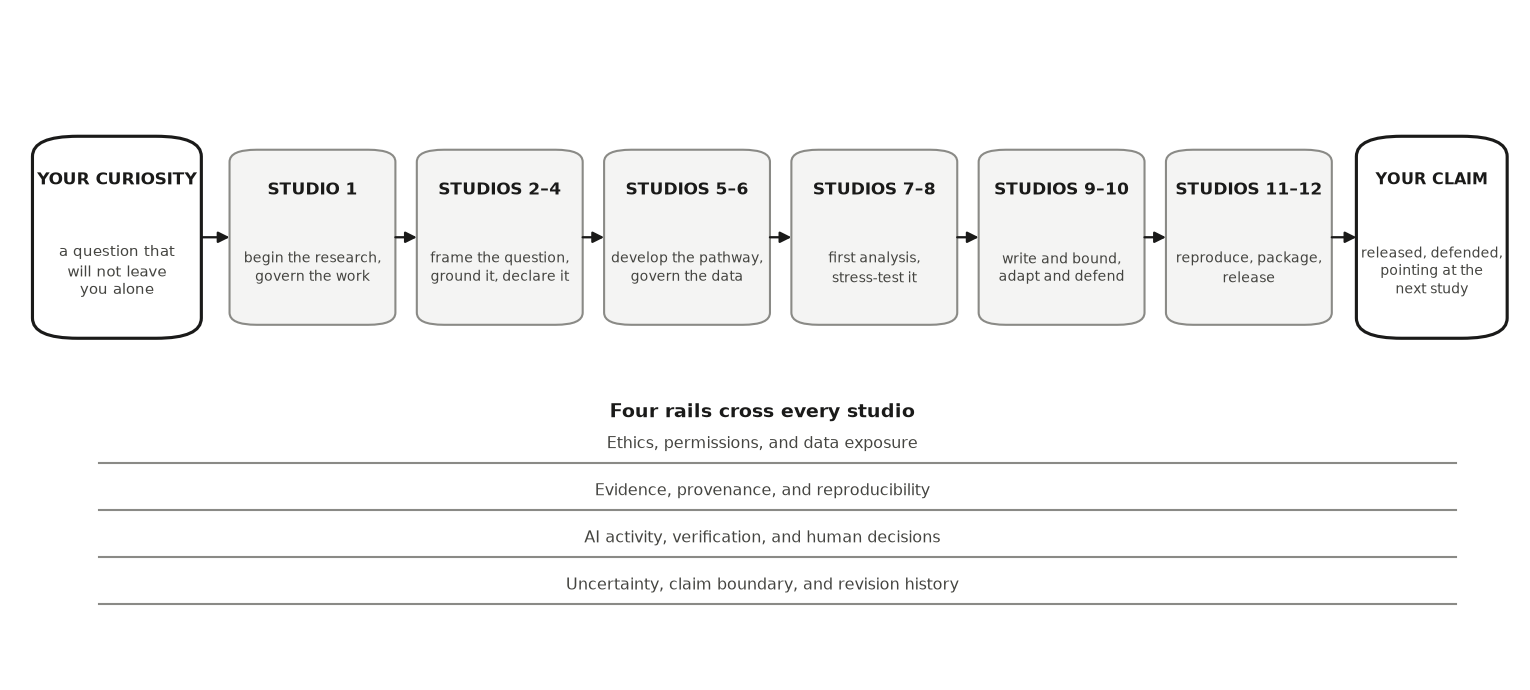
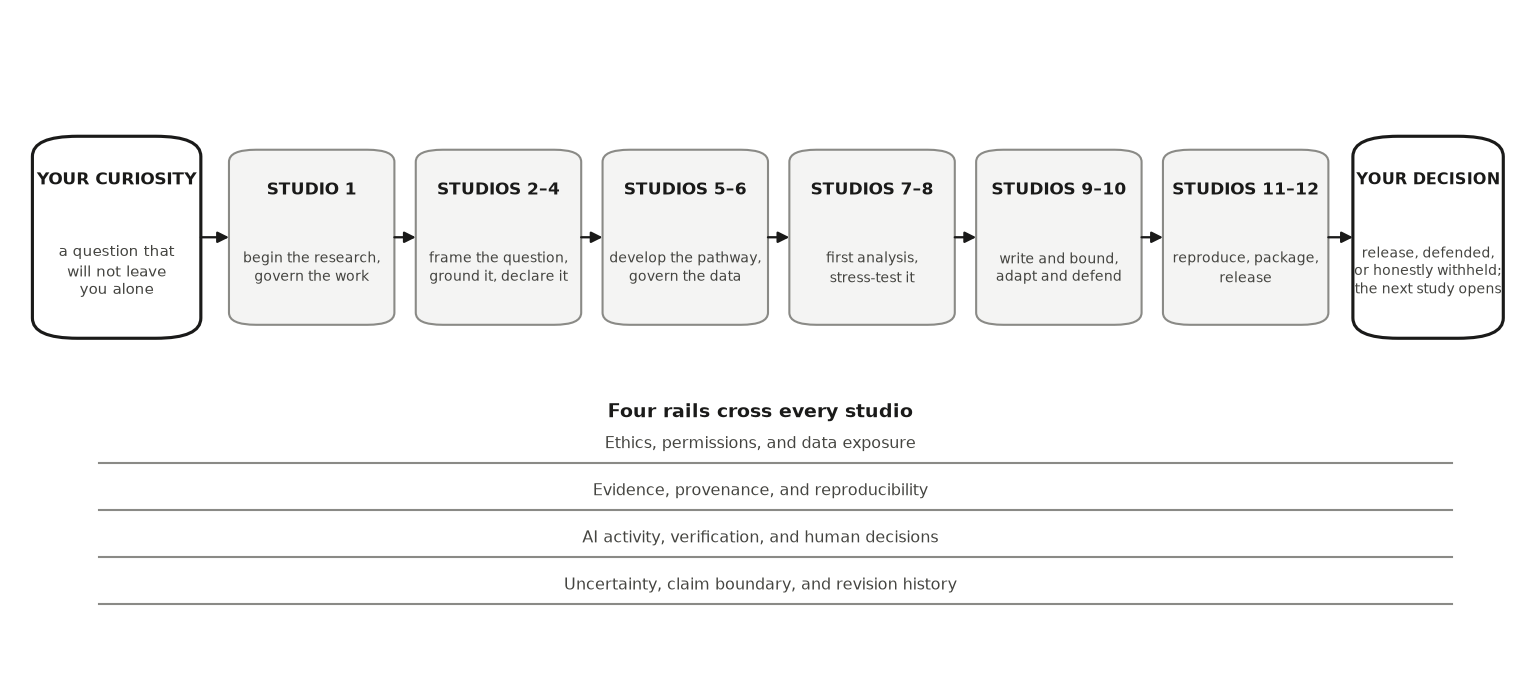
feat: D43 Codex-partner merge — four-line opening move, decision-honest endpoint, protocol rigor
Merged from the mirror partner run (gpt-5.6-sol, xhigh, read-only):
- Opening move gains the starting-belief line (write what you currently
  think the answer might be) and the hard no-AI stop; purpose says 'a
  curiosity you own'.
- Preface RDSS sentence names MIDA + declare-diagnose-redesign and the
  companion-not-substitute relationship.
- Figure endpoint honors D42's withhold semantics: 'YOUR DECISION —
  release, defended, or honestly withheld'; caption and alt text follow.
- ch4 core cycle flipped to 'List every claim to verify' (connects draft,
  ledger, verification, authorship); red-team-ownership becomes optional.
- M0 Book Anchor intro: named contributions, not prompt count.
- Cold-test protocols upgraded: 5-8 reader ideal, IRB determination flag,
  five-move reconstruction task, hard prompt-before-ledger gate,
  numerator reporting; second-A1-pilot pass criteria (claim or
  evidence-based withhold; toys do not lift A1).
- RDSS matrix: ch4 corrected to omitted (official ch4 is the
  DeclareDesign/R quickstart) and the READING_MAP 'ch. 4 §literature'
  conflict flagged for Davi; ch13 to adapted.
- Proposal DOCX: Studio 1 and Studio 2 passages inserted after the Part
  I/II headers (chapter-group mapping; ToC divergence reported to Davi).

Kept over Codex counter-proposals (recorded): restaurant-prices kit
thread (continuity with ch1) over the weather project; ch2 core cycle
stays the boundary red-team; shipped preface paragraphs.

diff --git a/docs/book/index.html b/docs/book/index.html
@@ -709,7 +709,7 @@ ul.task-list li input[type="checkbox"] {
 </div>
 <p><strong>EDR|AI</strong> — <em>Evidence-Driven Research in the Age of AI: How to Design, Analyze, Verify, and Defend</em> — is an open research manual for undergraduate students who want to produce research they can defend. It starts where research starts: with something you genuinely want to understand, and with what would count as evidence for an answer. AI can now draft the code, the prose, the citations, and the figures, and this book will put all of that drafting power in your hands. What AI cannot do is decide what your question is, what counts as evidence for it, or whether a claim deserves your name. This book teaches those decisions first, and keeps them yours to the last page. It was first written for an Honors research seminar at Purdue University, and it is deliberately institution-agnostic: any instructor or student, anywhere, is welcome to adopt it.</p>
 <p>Its one message: <em>AI is your arm and your research assistant, not your brain.</em> You will direct AI tools through the <strong>Specify → Delegate → Interrogate → Inspect → Verify → Document → Defend</strong> workflow while keeping every research decision your own. AI here means the full range of today’s tools, from chat assistants to agents that carry out multi-step work on their own; whichever you use, you review, you curate, and you decide. One rule runs through every verification step, collected in the <a href="./verification-guide.html">Verification Guide</a> appendix: AI can review AI, and a second model is a real auditor of the first, but the last decision is always human.</p>
-<p>The book is built as <strong>twelve studios</strong> — begin the research and govern the work, frame the inquiry, ground it in evidence, declare and diagnose, develop the pathway, and so on to the public release of a finished project. Each studio opens by naming the milestone ahead and why it matters, hands you its lessons, and closes with a <strong>milestone chapter</strong> where you produce a dated, versioned record of the studio’s artifact. The page <a href="./part1-research-with-ai/part1-overview.html">How this book is organized</a> draws the whole road. Blair, Coppock and Humphreys’ <em>Research Design in the Social Sciences</em> (RDSS, free at <a href="https://book.declaredesign.org">book.declaredesign.org</a>) is the theory text EDR|AI draws its design framework from, adapted for the undergraduate audience and for quantitative empirical projects (the coverage matrix in the repository records what is adopted, adapted, and omitted); read the matching RDSS chapters whenever you want more depth.</p>
+<p>The book is built as <strong>twelve studios</strong> — begin the research and govern the work, frame the inquiry, ground it in evidence, declare and diagnose, develop the pathway, and so on to the public release of a finished project. Each studio opens by naming the milestone ahead and why it matters, hands you its lessons, and closes with a <strong>milestone chapter</strong> where you produce a dated, versioned record of the studio’s artifact. The page <a href="./part1-research-with-ai/part1-overview.html">How this book is organized</a> draws the whole road. EDR|AI draws its design framework from Blair, Coppock and Humphreys’ <em>Research Design in the Social Sciences</em> (RDSS, free at <a href="https://book.declaredesign.org">book.declaredesign.org</a>), especially its MIDA framework and its declare, diagnose, redesign cycle, adapted here for a first quantitative empirical project and joined to a governed AI workflow. It is a companion and an operational on-ramp to RDSS, not a translation or a substitute (the repository’s coverage matrix records what is adopted, adapted, and omitted); read the matching RDSS chapters whenever you want more depth.</p>
 <section id="why-this-book" class="level2">
 <h2 class="anchored" data-anchor-id="why-this-book">Why this book</h2>
 <p>This book comes from a particular seat. At Purdue’s Daniels School of Business I direct the undergraduate honors program, serve as the school’s undergraduate research representative, and this fall help launch its new honors scholarship. My training is in evidence: political communication, text as data, and applied data science, with years of program-evaluation fieldwork for the World Bank. Much of my career has gone into teaching material for students at every level, from <a href="https://github.com/davi-moreira/txt4cs">txt4cs</a>, an open text-as-data tutorial, to published work on pedagogy. More recently I have used AI tools and agents to design, redesign, and produce entire courses and their materials — a full predictive-analytics course among them — alongside research on AI-assisted course development.</p>

diff --git a/docs/book/part1-research-with-ai/part1-overview.html b/docs/book/part1-research-with-ai/part1-overview.html
@@ -681,8 +681,8 @@ ul.task-list li input[type="checkbox"] {
 <p>The road starts with you, not with a tool. Studio 1 opens with a human-only move: one thing you genuinely want to understand, written down before any tool is open. Then, with that curiosity on the page, the studio sets the operating rules that protect it for the rest of the road: the principle (AI is your arm and your research assistant, not your brain), your role (research director), the protocol you run every time you delegate (SDIIVDD), and the ownership that never transfers (your name on the claim).</p>
 <div class="quarto-figure quarto-figure-center">
 <figure class="figure">
-<p><img src="../images/part1_arc.png" class="img-fluid figure-img" alt="Diagram. A road runs left to right: a capsule labeled your curiosity, then six stages from Studio 1 (begin the research, govern the work) through Studios 11 and 12 (reproduce, package, release), ending in a capsule labeled your claim, released and defended. Beneath the road, four horizontal rails span its full length: ethics and permissions, evidence and provenance, AI activity and verification, uncertainty and revision."></p>
-<figcaption>Your curiosity enters the road at Studio 1 and leaves Studio 12 as a released claim; four rails cross every studio on the way.</figcaption>
+<p><img src="../images/part1_arc.png" class="img-fluid figure-img" alt="Diagram. A road runs left to right: a capsule labeled your curiosity, then six stages from Studio 1 (begin the research, govern the work) through Studios 11 and 12 (reproduce, package, release), ending in a capsule labeled your decision: release, defended, or honestly withheld. Beneath the road, four horizontal rails span its full length: ethics and permissions, evidence and provenance, AI activity and verification, uncertainty and revision."></p>
+<figcaption>Your curiosity enters the road at Studio 1 and reaches Studio 12 as a decision: release the claim, defended, or withhold it with the repair named. Four rails cross every studio on the way.</figcaption>
 </figure>
 </div>
 <p>The road has a shape worth naming. Studios 2–4 turn curiosity into a declared, diagnosable research design. Studios 5–6 develop your pathway — observational or experimental, descriptive, causal, or predictive — and put your data and measurement under governance. Studios 7–8 produce your first reproducible analysis and then try to break it. Studios 9–10 write your claims down with their boundaries and adapt them to whatever venue will test them. Studios 11–12 make the work reproducible by strangers and hand the next cycle its agenda. Six arcs, twelve studios, one project.</p>

diff --git a/docs/book/studios/studio01-govern-the-work.html b/docs/book/studios/studio01-govern-the-work.html
@@ -686,17 +686,18 @@ ul.task-list li input[type="checkbox"] {
 </div>
 </div>
 <blockquote class="blockquote">
-<p><strong>What you can defend when you leave.</strong> Put your own curiosity on the page first, then decide how you and your tools will work while nothing is yet at stake, so the rules exist when the pressure arrives.</p>
+<p><strong>What you can defend when you leave.</strong> Begin with a curiosity you own, then decide how you and your tools will work while nothing is yet at stake, so the rules exist when the pressure arrives.</p>
 </blockquote>
 <section id="opening-move" class="level2">
 <h2 class="anchored" data-anchor-id="opening-move">Start without a tool</h2>
-<p>Research starts with something that will not leave you alone: a pattern you keep noticing, a contradiction, a decision you want to understand. Before you open any tool, write three lines by hand.</p>
+<p>Research starts with something that will not leave you alone: a pattern you keep noticing, a contradiction, a decision you want to understand. Close every AI tool; this first move is yours. Write four lines by hand.</p>
 <ol type="1">
 <li>One thing you genuinely want to understand, in one sentence.</li>
 <li>Why an answer would matter, and to whom.</li>
-<li>What evidence could change what you currently believe about it.</li>
+<li>What you currently think the answer might be. A starting belief, not a claim.</li>
+<li>One kind of evidence that could make you revise that belief.</li>
 </ol>
-<p>No AI on this page. Keep what you wrote: Lesson 1 widens it into candidate curiosities, and every rule this studio sets exists to protect it.</p>
+<p>No AI on this page: do not ask a tool to generate, improve, or rank your curiosity. Keep what you wrote. Lesson 1 widens it into candidate curiosities, and every rule this studio sets exists to protect it.</p>
 </section>
 <section id="checkpoint" class="level2">
 <h2 class="anchored" data-anchor-id="checkpoint">The milestone ahead</h2>

diff --git a/docs/book/part1-research-with-ai/04-research-responsibility-and-intellectual-ownership.html b/docs/book/part1-research-with-ai/04-research-responsibility-and-intellectual-ownership.html
@@ -816,13 +816,13 @@ div.csl-indent {
 <li><p>Draft the AI-use disclosure you would attach to your work as it stands today, built from your ledger rows rather than from memory. Name each tool, what it did, and how you checked it. If an agent ran a long loop on your behalf, say so, and say what you opened and inspected when it finished.</p></li>
 <li><p>Read the disclosure and the ledger side by side. Wherever they disagree, the ledger is right. Fix the disclosure.</p></li>
 <li><p>Find one sentence you have already written that you could not defend if someone asked how you know it is true. Produce the check, or cut the sentence.</p>
-<p><em>Optional depth. The milestone needs only this lesson’s core cycle; run this second angle when you want more practice.</em></p>
 <p><strong>List every claim to verify.</strong></p>
 <pre><code>Here is my draft results paragraph: [paste]. List every empirical claim in it as a
 table: the claim, the number or source it rests on, and whether that number came from
 my data or from you. Do not add any new claims.</code></pre>
 <p>After running, verify: check the table against your own list of what you actually measured. Counters <strong>illusion of completeness</strong>, a claim the draft slipped in that never shows up in the tool’s own accounting.</p>
 <p><em>A second angle, optional:</em></p>
+<p><em>Optional depth. The milestone needs only this lesson’s core cycle; run this second angle when you want more practice.</em></p>
 <p><strong>Red-team your ownership.</strong></p>
 <pre><code>Act as a hostile reviewer. Read my draft and name every sentence I could NOT defend
 myself if someone asked how I know it is true. Do not rewrite anything. List the weak

diff --git a/scripts/build_book_part1_figure.py b/scripts/build_book_part1_figure.py
@@ -30,7 +30,7 @@ INK, SOFT, FILL = "#1a1a19", "#8a8a86", "#f4f4f3"
 L = {
     "book": {
         "start": ("YOUR CURIOSITY", "a question that\nwill not leave\nyou alone"),
-        "end": ("YOUR CLAIM", "released, defended,\npointing at the\nnext study"),
+        "end": ("YOUR DECISION", "release, defended,\nor honestly withheld;\nthe next study opens"),
         "road": [
             ("STUDIO 1", "begin the research,\ngovern the work"),
             ("STUDIOS 2–4", "frame the question,\nground it, declare it"),

diff --git a/planning/COLD_TEST_PROTOCOLS.md b/planning/COLD_TEST_PROTOCOLS.md
@@ -9,10 +9,11 @@ Davi's go (participant, timing); nothing here executes by itself.
 other way around, and does the first-AI invariant hold in a real reader's
 hands?
 
-**Participant.** One undergraduate (or comparable novice) who has not seen
-the book and has no quantitative background. A real reader, not a
-simulated one; an AI-simulated pass may be run as a cheap pre-check but
-never substitutes for the human session.
+**Participants.** One undergraduate (or comparable novice) minimum; 5–8
+with mixed AI habits is the diagnostic ideal. Real readers, not simulated
+ones; an AI-simulated pass may be run as a cheap pre-check but never
+substitutes for the human sessions. Before recruiting, Davi determines the
+applicable consent and institutional-review requirements.
 
 **Materials.** The rendered book from the preface through Chapter 1's "It
 is your turn", plus a blank sheet for the opening move; a screen the
@@ -39,11 +40,19 @@ observer can see; no coaching beyond the script.
 - Reader identifies the never-delegate boundary unprompted or when asked.
 - Any point where the reader stalls, rereads twice, or skips: note where.
 
-**Pass signals.** Answers to (2) name research/curiosity first; the
-first-AI invariant held without observer intervention; the opening felt
-to the reader like starting a project, not reading a policy. **Fail
-signals.** "It's a book about AI"; prompt-before-ledger; the opening move
-skipped as decorative.
+Two additions to the script, from the partner track: at the end, ask the
+reader to reconstruct, without looking back, the order of their first five
+moves (curiosity → ledger → prompt → check → row); and note every point
+where they ask "do I have to do this?".
+
+**Pass signals.** HARD GATE: zero readers run a prompt before opening the
+ledger. Then, reported as numerators over denominators: most readers (aim
+≥80%) complete the opening move without AI, carry their own curiosity into
+Chapter 1, independently open a source rather than asking the AI to check
+itself, reconstruct the five-move order, distinguish core from optional
+depth, and describe the book unaided as doing research with governed AI.
+**Fail signals.** "It's a book about AI"; prompt-before-ledger; the
+opening move skipped as decorative.
 
 **Output.** One page: checklist, quotes, artifact photos, and the repair
 list. File under `_adm/cold_tests/` (gitignored) with the date.
@@ -58,10 +67,20 @@ the operational frame:
 
 - Run AFTER the D43 opening changes and the Studio 1–4 practice kits are
   in place, so the pilot tests the current on-ramp.
-- The pilot reader works without maintainer help; every stall is logged
-  with its studio and step, as in the first pilot.
-- Success lifts A1's bounded promise per the acceptance document's own
-  terms; failure feeds the next repair list, not a relabeling.
+- The reader is unaffiliated with the book's development, works from the
+  book alone (no instructor, no hidden local knowledge, no paid AI
+  dependency), starts from an original human curiosity, and takes the
+  public/open no-permission route with real data whose provenance and
+  terms are recorded.
+- All twelve milestones are versioned; solo substitutes are labeled as
+  proxies; the close is a complete note (methods, results, uncertainty,
+  discussion, claim boundary, references, AI disclosure), a clean package
+  run in a fresh environment, and a release-or-withhold decision.
+- Every stall is logged with the studio and step that owns the missing
+  instruction.
+- PASS: a defensible original empirical claim, or an evidence-based
+  withhold with the failed gate and redesign documented. A toy
+  calculation or constructed-data walkthrough does not lift A1.
 
 **Davi rules on:** who runs each protocol, when, and whether the first
 mile passes. The evidence standard for lifting P1 stays the acceptance

diff --git a/planning/RDSS_COVERAGE_MATRIX.md b/planning/RDSS_COVERAGE_MATRIX.md
@@ -19,7 +19,7 @@ EDR|AI's scope · *EDR|AI-original* = no RDSS counterpart.
 | 1 | Preface | adapted | EDR|AI preface: same declare-diagnose-redesign spirit, reframed for the AI age |
 | 2 | What is a research design? | adopted | ch. 9 (MIDA): the four-component definition is taken over directly |
 | 3 | Research design principles | adapted | distributed across Studios 2–4 openers and the four rails; principles become practice steps |
-| 4 | Getting started | adapted | ch. 5 (curiosity → problem) carries the on-ramp, joined to the D43 opening move |
+| 4 | Getting started | omitted | RDSS ch. 4 is the DeclareDesign/R software quickstart (verified against the official contents); EDR|AI companions use plain Python. NOTE: `READING_MAP.md` cites "RDSS ch. 4 §literature" for the evidence weeks, which conflicts with the official chapter and needs Davi's correction |
 | 5 | Declaring designs | adapted | ch. 11: declaration taught conceptually and by seeded simulation, not via the DeclareDesign package |
 | 6 | Specifying the model | adapted | ch. 9's M, in plain language |
 | 7 | Defining the inquiry | adapted | ch. 6 + ch. 9: the inquiry compass (kind × reach) is EDR|AI's rendering |
@@ -28,7 +28,7 @@ EDR|AI's scope · *EDR|AI-original* = no RDSS counterpart.
 | 10 | Diagnosing designs (incl. power) | adapted | ch. 11: bias, wobble, power read from simulation |
 | 11 | Redesigning | adopted | ch. 11's redesign move plus the milestone versioning rule (a version, not a pass) |
 | 12 | Design example | omitted | instructor reference only; EDR|AI carries its own worked examples |
-| 13 | Designing in code | omitted | DeclareDesign-in-R is not taught; companions use plain Python |
+| 13 | Designing in code | adapted | the declare-in-code idea survives in ch. 11's seeded simulations and the Python companions; DeclareDesign-in-R itself is not taught |
 | 15 | Observational: descriptive | adapted | ch. 13, with the selection diagram and claim boundary |
 | 16 | Observational: causal | adapted | ch. 14: confounding, diagrams, identification leverage |
 | 17 | Experimental: descriptive | adapted | ch. 15: randomized probes as measurement |

diff --git a/_research_project/2026Fall/milestone_00_research_ai_baseline.md b/_research_project/2026Fall/milestone_00_research_ai_baseline.md
@@ -44,9 +44,12 @@ you before you put your name on it.
 ## The Book Anchor — "It Is Your Turn"
 
 This milestone is anchored in the course book, **EDR\|AI**. Read the chapters
-below as you develop the milestone, and complete each chapter's closing **"It
-is your turn"** section in its companion Colab notebook (or carry the same
-work inside your project notebook):
+below as you develop the milestone, and complete the named contribution each
+chapter's closing **"It is your turn"** section builds, in its companion
+Colab notebook (or carry the same work inside your project notebook). You do
+not have to run every prompt: each lesson marks one core AI cycle, and the
+prompts labeled *Optional depth* are exactly that. The Studio 1 milestone
+checklist, not prompt count, defines completion:
 
 - Ch. 1 — [AI Is Your Arm, Not Your Brain](https://davi-moreira.github.io/2026F_evidence_driven_research_purdue_HONR464/book/part1-research-with-ai/01-ai-is-your-arm-not-your-brain.html) · [companion notebook](https://colab.research.google.com/github/davi-moreira/2026F_evidence_driven_research_purdue_HONR464/blob/main/notebooks/book/ch01_ai_is_your_arm_not_your_brain.ipynb)
 - Ch. 2 — [The Student as Research Director](https://davi-moreira.github.io/2026F_evidence_driven_research_purdue_HONR464/book/part1-research-with-ai/02-the-student-as-research-director.html) · [companion notebook](https://colab.research.google.com/github/davi-moreira/2026F_evidence_driven_research_purdue_HONR464/blob/main/notebooks/book/ch02_the_student_as_research_director.ipynb)
